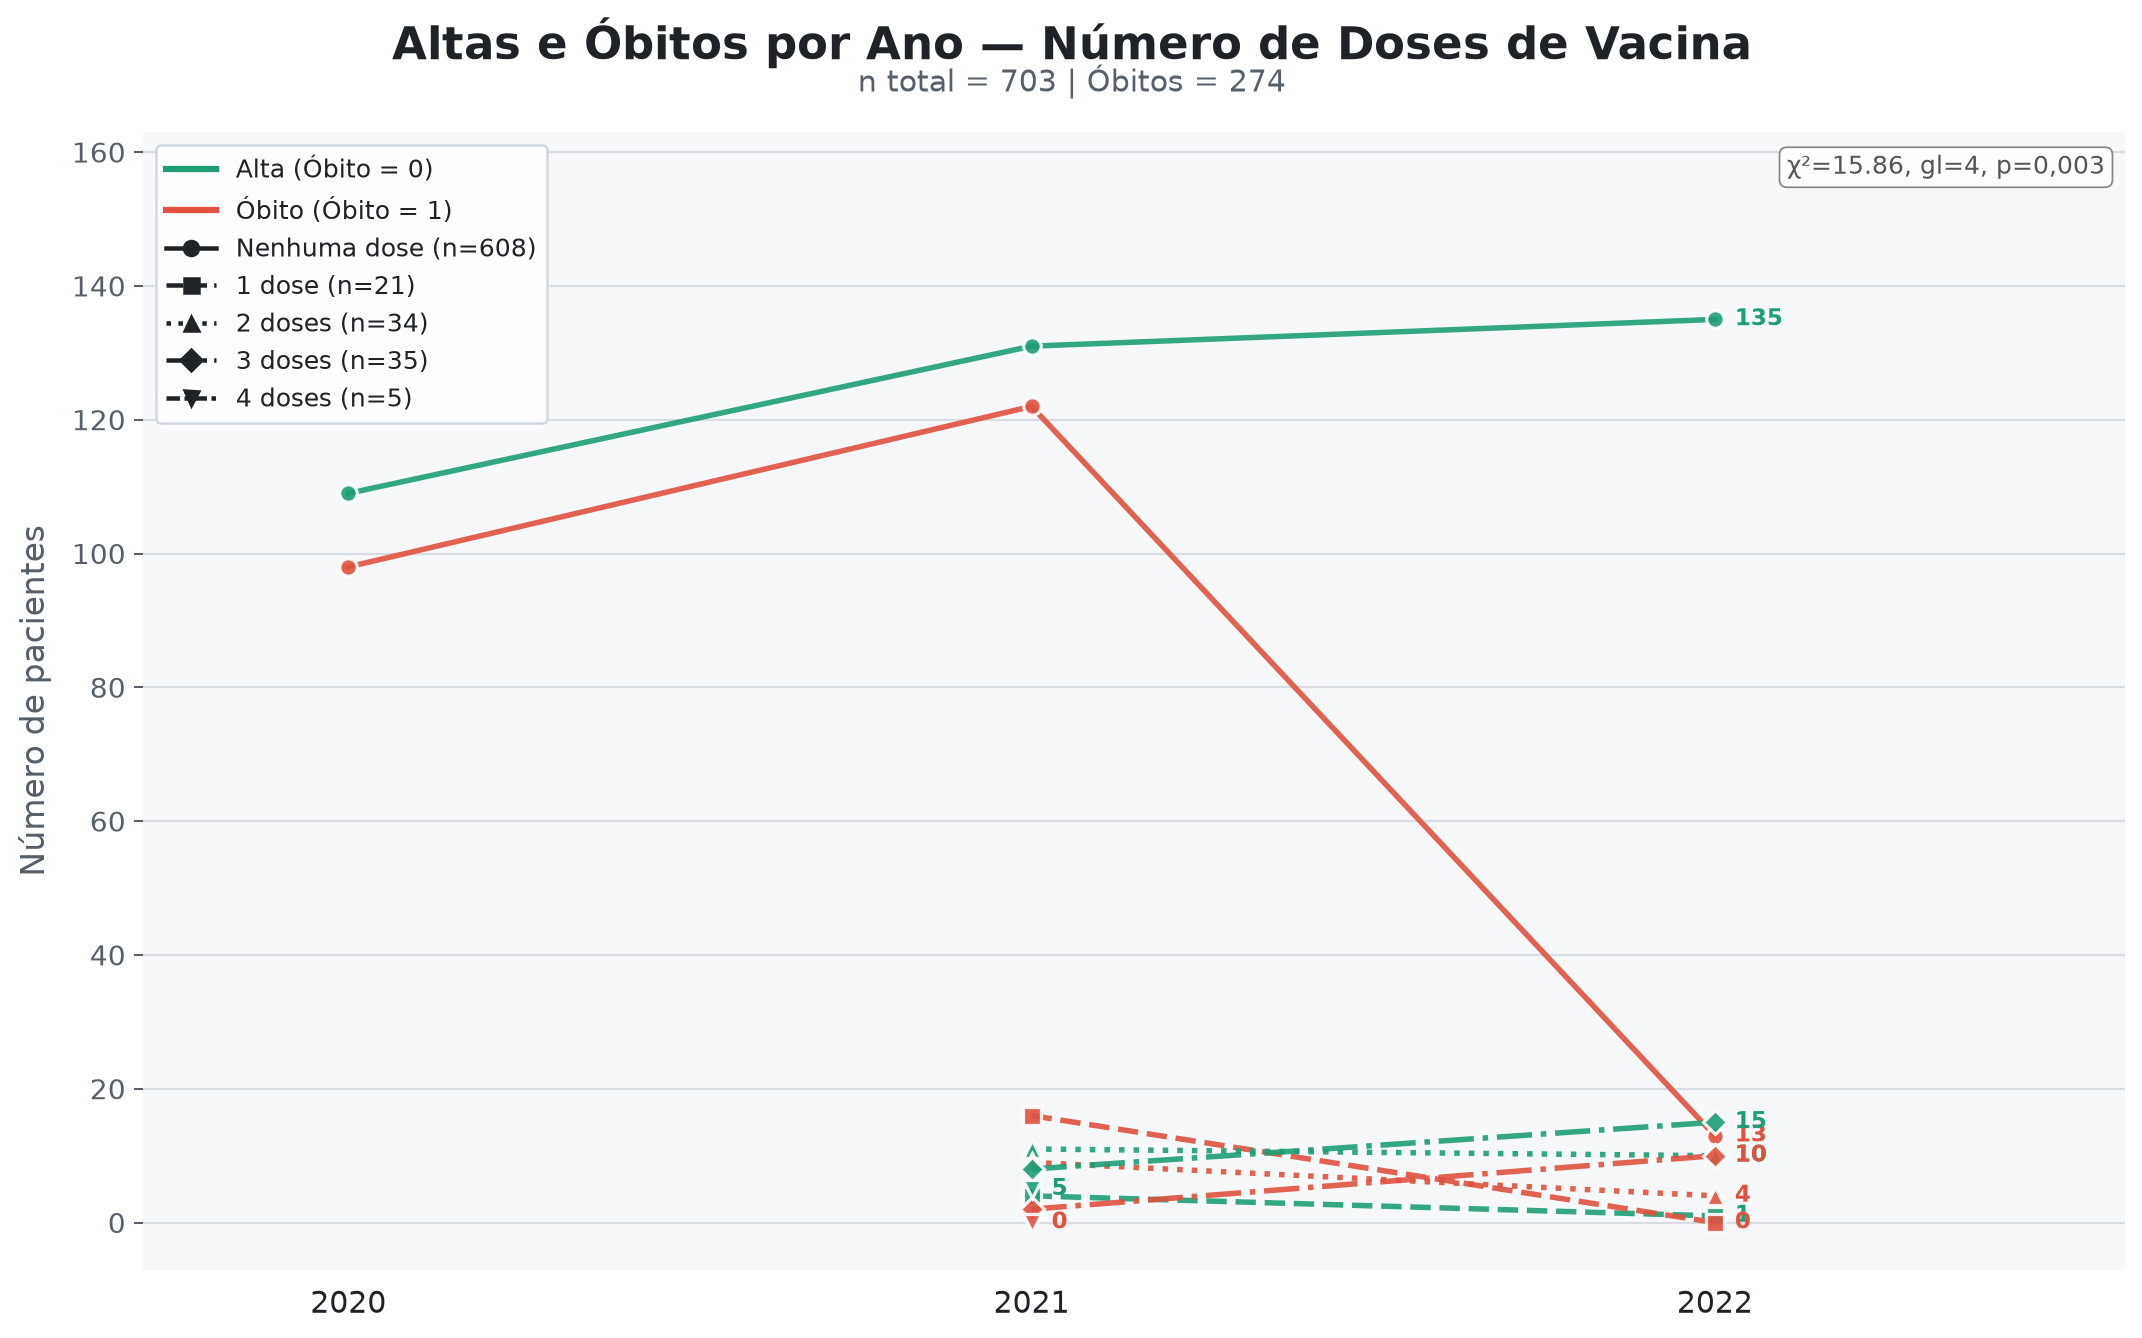
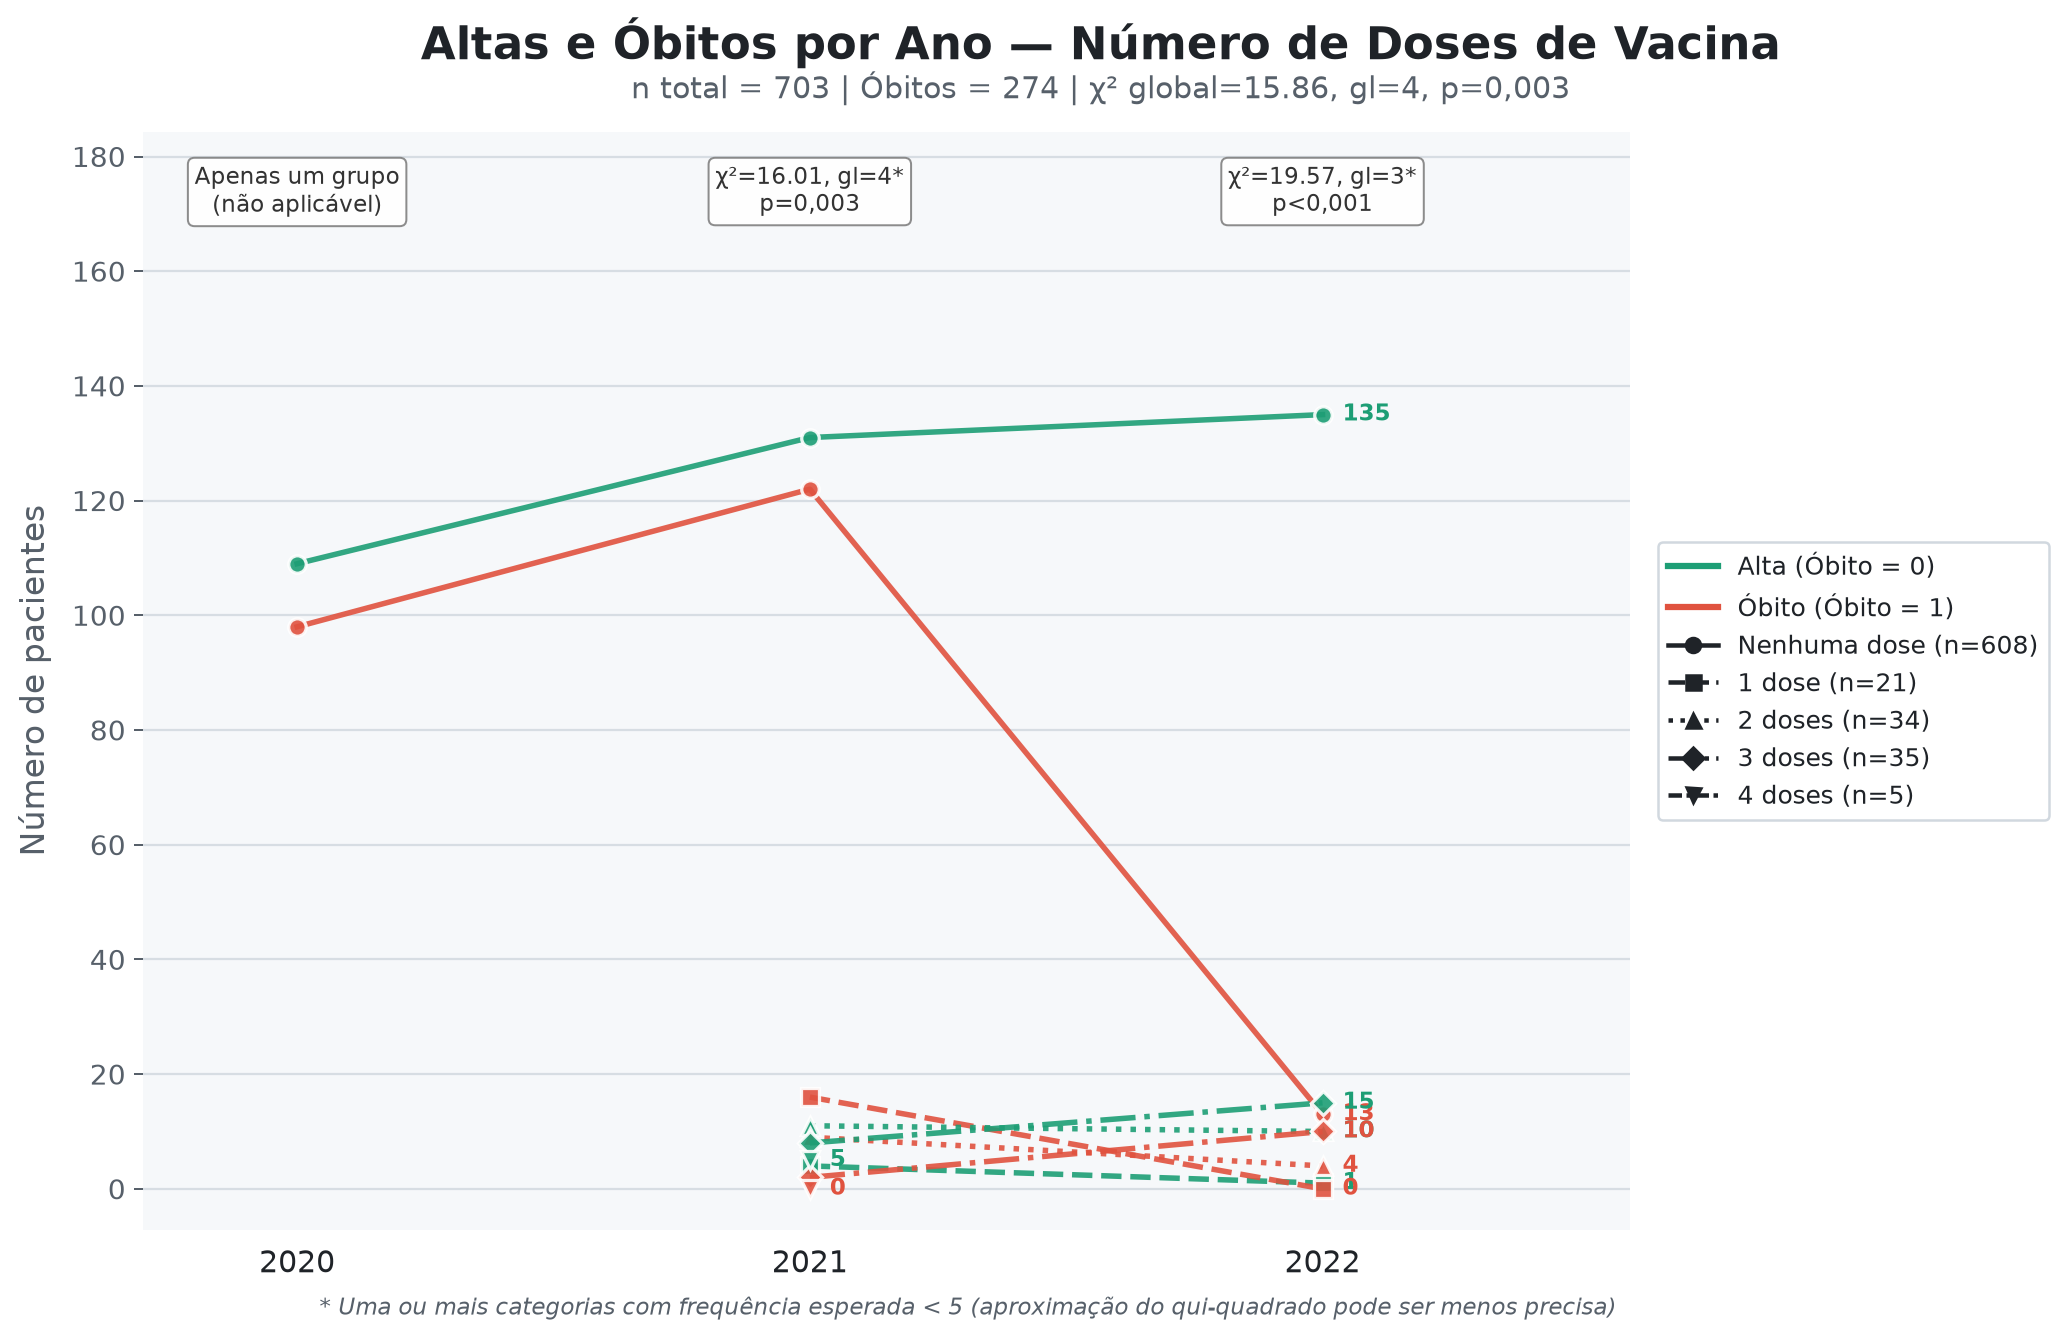
Add per-year chi-square test annotations to yearly line charts
Adds a chi-square test box above each year (in addition to the global
test in the subtitle), and moves the legend outside the plot area to
avoid overlap with the new annotations. Flags per-year tests with
expected cell counts below 5 in the dose chart.

Claude-Session: https://claude.ai/code/session_01XH5oXC7ooCrnQVbPhtjYiY

diff --git a/17_lineplot_ano_doses.py b/17_lineplot_ano_doses.py
@@ -42,16 +42,34 @@ n_obitos = int(dados["Óbito"].sum())
 anos_todos = sorted(dados["Ano"].unique())
 
 # ════════════════════════════════════════════════════════════
-# 2. TESTE QUI-QUADRADO (associação entre nº de doses e desfecho)
+# 2. TESTE QUI-QUADRADO — global e por ano (associação doses × desfecho)
 # ════════════════════════════════════════════════════════════
 tab_chi2 = pd.crosstab(dados["Vacinas"], dados["Óbito"])
 chi2, p_chi2, dof, _ = chi2_contingency(tab_chi2)
-p_chi2_str = "p<0,001" if p_chi2 < 0.001 else f"p={p_chi2:.3f}".replace(".", ",")
+
+
+def formata_p(p):
+    return "p<0,001" if p < 0.001 else f"p={p:.3f}".replace(".", ",")
+
+
+p_chi2_str = formata_p(p_chi2)
+
+chi2_por_ano = {}
+for ano in anos_todos:
+    tab_ano = pd.crosstab(dados.loc[dados["Ano"] == ano, "Vacinas"],
+                           dados.loc[dados["Ano"] == ano, "Óbito"])
+    if tab_ano.shape[0] > 1 and tab_ano.shape[1] > 1:
+        chi2_ano, p_ano, dof_ano, exp_ano = chi2_contingency(tab_ano)
+        nota = "*" if exp_ano.min() < 5 else ""
+        chi2_por_ano[ano] = (f"χ²={chi2_ano:.2f}, gl={dof_ano}{nota}\n"
+                              f"{formata_p(p_ano)}")
+    else:
+        chi2_por_ano[ano] = "Apenas um grupo\n(não aplicável)"
 
 # ════════════════════════════════════════════════════════════
 # 3. GRÁFICO ÚNICO — todas as combinações dose × desfecho
 # ════════════════════════════════════════════════════════════
-fig, ax = plt.subplots(figsize=(12, 7.5), facecolor=BG)
+fig, ax = plt.subplots(figsize=(14, 7.5), facecolor=BG)
 ax.set_facecolor(PANEL)
 ax.yaxis.grid(True, color=BORDER, linewidth=0.9, zorder=0, alpha=0.8)
 ax.set_axisbelow(True)
@@ -93,9 +111,16 @@ ax.tick_params(axis="x", length=0, pad=8)
 ax.yaxis.set_major_locator(mticker.MaxNLocator(integer=True))
 ax.set_ylabel("Número de pacientes", fontsize=13, color=SUBTEXT, labelpad=8)
 ymin, ymax = ax.get_ylim()
-ax.set_ylim(-ymax * 0.05, ymax * 1.15)
+ax.set_ylim(-ymax * 0.05, ymax * 1.30)
 
-# Legenda: cor = desfecho, estilo de linha/marcador = número de doses
+# Anotações do teste qui-quadrado por ano
+for ano in anos_todos:
+    ax.text(ano, ymax * 1.26, chi2_por_ano[ano], ha="center", va="top",
+            fontsize=9, color="#333333",
+            bbox=dict(boxstyle="round,pad=0.3", fc="white", ec="gray",
+                      alpha=0.9, linewidth=0.8))
+
+# Legenda (fora do painel, à direita): cor = desfecho, estilo = nº de doses
 legend_elements = [
     Line2D([0], [0], color=COR_ALTA, lw=2.5, label="Alta (Óbito = 0)"),
     Line2D([0], [0], color=COR_OBITO, lw=2.5, label="Óbito (Óbito = 1)"),
@@ -107,22 +132,21 @@ for dose in sorted(DOSE_LABELS):
                **DOSE_ESTILO[dose]))
 
 ax.legend(handles=legend_elements, fontsize=10, frameon=True, edgecolor=BORDER,
-          facecolor=BG, labelcolor=TEXT, loc="upper left", framealpha=0.97,
-          ncol=1)
+          facecolor=BG, labelcolor=TEXT, loc="center left",
+          bbox_to_anchor=(1.01, 0.5), framealpha=0.97)
 
-# Anotação do teste qui-quadrado (Vacinas × Óbito)
-ax.text(0.99, 0.98, f"χ²={chi2:.2f}, gl={dof}, {p_chi2_str}",
-        transform=ax.transAxes, fontsize=10, color="#555555",
-        ha="right", va="top",
-        bbox=dict(boxstyle="round,pad=0.3", fc="white", ec="gray",
-                  alpha=0.95, linewidth=0.7))
-
-fig.text(0.5, 0.985, "Altas e Óbitos por Ano — Número de Doses de Vacina",
+fig.text(0.44, 0.985, "Altas e Óbitos por Ano — Número de Doses de Vacina",
           ha="center", va="top", fontsize=18, fontweight="bold", color=TEXT)
-fig.text(0.5, 0.95, f"n total = {n_total} | Óbitos = {n_obitos}",
+fig.text(0.44, 0.945,
+          f"n total = {n_total} | Óbitos = {n_obitos} | "
+          f"χ² global={chi2:.2f}, gl={dof}, {p_chi2_str}",
           ha="center", va="top", fontsize=12, color=SUBTEXT)
+fig.text(0.13, 0.02,
+          "* Uma ou mais categorias com frequência esperada < 5 "
+          "(aproximação do qui-quadrado pode ser menos precisa)",
+          ha="left", va="bottom", fontsize=9, style="italic", color=SUBTEXT)
 
-plt.tight_layout(rect=[0, 0, 1, 0.92])
+plt.tight_layout(rect=[0, 0.03, 0.83, 0.92])
 plt.savefig(OUTPUT_PNG, dpi=180, bbox_inches="tight", facecolor=BG)
 print(f"Gráfico salvo em: {OUTPUT_PNG}")
 plt.show()

diff --git a/16_lineplot_ano_vacinado.py b/16_lineplot_ano_vacinado.py
@@ -35,16 +35,32 @@ n_obitos = int(dados["Óbito"].sum())
 anos_todos = sorted(dados["Ano"].unique())
 
 # ════════════════════════════════════════════════════════════
-# 2. TESTE QUI-QUADRADO (associação entre vacinação e desfecho)
+# 2. TESTE QUI-QUADRADO — global e por ano (associação vacinação × desfecho)
 # ════════════════════════════════════════════════════════════
 tab_chi2 = pd.crosstab(dados["Vacinado"], dados["Óbito"])
 chi2, p_chi2, dof, _ = chi2_contingency(tab_chi2)
-p_chi2_str = "p<0,001" if p_chi2 < 0.001 else f"p={p_chi2:.3f}".replace(".", ",")
+
+
+def formata_p(p):
+    return "p<0,001" if p < 0.001 else f"p={p:.3f}".replace(".", ",")
+
+
+p_chi2_str = formata_p(p_chi2)
+
+chi2_por_ano = {}
+for ano in anos_todos:
+    tab_ano = pd.crosstab(dados.loc[dados["Ano"] == ano, "Vacinado"],
+                           dados.loc[dados["Ano"] == ano, "Óbito"])
+    if tab_ano.shape[0] > 1 and tab_ano.shape[1] > 1:
+        chi2_ano, p_ano, dof_ano, _ = chi2_contingency(tab_ano)
+        chi2_por_ano[ano] = f"χ²={chi2_ano:.2f}, gl={dof_ano}\n{formata_p(p_ano)}"
+    else:
+        chi2_por_ano[ano] = "Apenas um grupo\n(não aplicável)"
 
 # ════════════════════════════════════════════════════════════
 # 3. GRÁFICO ÚNICO — todas as combinações grupo × desfecho
 # ════════════════════════════════════════════════════════════
-fig, ax = plt.subplots(figsize=(11, 7), facecolor=BG)
+fig, ax = plt.subplots(figsize=(13, 7), facecolor=BG)
 ax.set_facecolor(PANEL)
 ax.yaxis.grid(True, color=BORDER, linewidth=0.9, zorder=0, alpha=0.8)
 ax.set_axisbelow(True)
@@ -87,9 +103,16 @@ ax.tick_params(axis="x", length=0, pad=8)
 ax.yaxis.set_major_locator(mticker.MaxNLocator(integer=True))
 ax.set_ylabel("Número de pacientes", fontsize=13, color=SUBTEXT, labelpad=8)
 ymin, ymax = ax.get_ylim()
-ax.set_ylim(-ymax * 0.05, ymax * 1.12)
+ax.set_ylim(-ymax * 0.05, ymax * 1.22)
 
-# Legenda: cor = desfecho, estilo de linha/marcador = grupo de vacinação
+# Anotações do teste qui-quadrado por ano
+for ano in anos_todos:
+    ax.text(ano, ymax * 1.18, chi2_por_ano[ano], ha="center", va="top",
+            fontsize=9, color="#333333",
+            bbox=dict(boxstyle="round,pad=0.3", fc="white", ec="gray",
+                      alpha=0.9, linewidth=0.8))
+
+# Legenda (fora do painel, à direita): cor = desfecho, estilo = grupo
 legend_elements = [
     Line2D([0], [0], color=COR_ALTA, lw=2.5, label="Alta (Óbito = 0)"),
     Line2D([0], [0], color=COR_OBITO, lw=2.5, label="Óbito (Óbito = 1)"),
@@ -99,21 +122,17 @@ legend_elements = [
            label=f"Vacinados (n={(dados['Vacinado'] == 1).sum()})"),
 ]
 ax.legend(handles=legend_elements, fontsize=11, frameon=True, edgecolor=BORDER,
-          facecolor=BG, labelcolor=TEXT, loc="upper left", framealpha=0.97)
+          facecolor=BG, labelcolor=TEXT, loc="center left",
+          bbox_to_anchor=(1.01, 0.5), framealpha=0.97)
 
-# Anotação do teste qui-quadrado (Vacinado × Óbito)
-ax.text(0.99, 0.98, f"χ²={chi2:.2f}, gl={dof}, {p_chi2_str}",
-        transform=ax.transAxes, fontsize=10, color="#555555",
-        ha="right", va="top",
-        bbox=dict(boxstyle="round,pad=0.3", fc="white", ec="gray",
-                  alpha=0.95, linewidth=0.7))
-
-fig.text(0.5, 0.985, "Altas e Óbitos por Ano — Vacinados vs. Não Vacinados",
+fig.text(0.44, 0.985, "Altas e Óbitos por Ano — Vacinados vs. Não Vacinados",
           ha="center", va="top", fontsize=18, fontweight="bold", color=TEXT)
-fig.text(0.5, 0.945, f"n total = {n_total} | Óbitos = {n_obitos}",
+fig.text(0.44, 0.945,
+          f"n total = {n_total} | Óbitos = {n_obitos} | "
+          f"χ² global={chi2:.2f}, gl={dof}, {p_chi2_str}",
           ha="center", va="top", fontsize=12, color=SUBTEXT)
 
-plt.tight_layout(rect=[0, 0, 1, 0.92])
+plt.tight_layout(rect=[0, 0, 0.86, 0.92])
 plt.savefig(OUTPUT_PNG, dpi=180, bbox_inches="tight", facecolor=BG)
 print(f"Gráfico salvo em: {OUTPUT_PNG}")
 plt.show()
